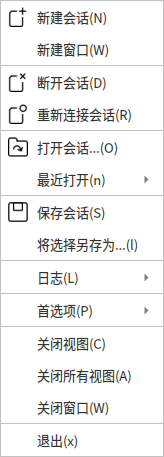
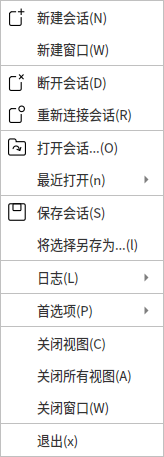
fix: king 矢量图标渲染 32→18px 对齐菜单图标列尺寸

Changed region(s): [[0.0305, 0.1532, 0.1829, 0.3676], [0.0305, 0.4289, 0.1829, 0.4902], [0.0305, 0.0, 0.1524, 0.0613]]

diff --git a/src/widgets/ActionIcons.h b/src/widgets/ActionIcons.h
@@ -99,7 +99,7 @@ inline QIcon iconFor(const QString &actionId, const QString &iconName, const QSt
     QString kingName = iconName;
     kingName.remove(QLatin1String("king::"));
     if (!kingName.isEmpty()) {
-        const QIcon king = KingIcons::icon(kingName, theme, 32);
+        const QIcon king = KingIcons::icon(kingName, theme, 18);  // 菜单图标列尺寸（16–18）
         if (!king.isNull())
             return king;
     }
